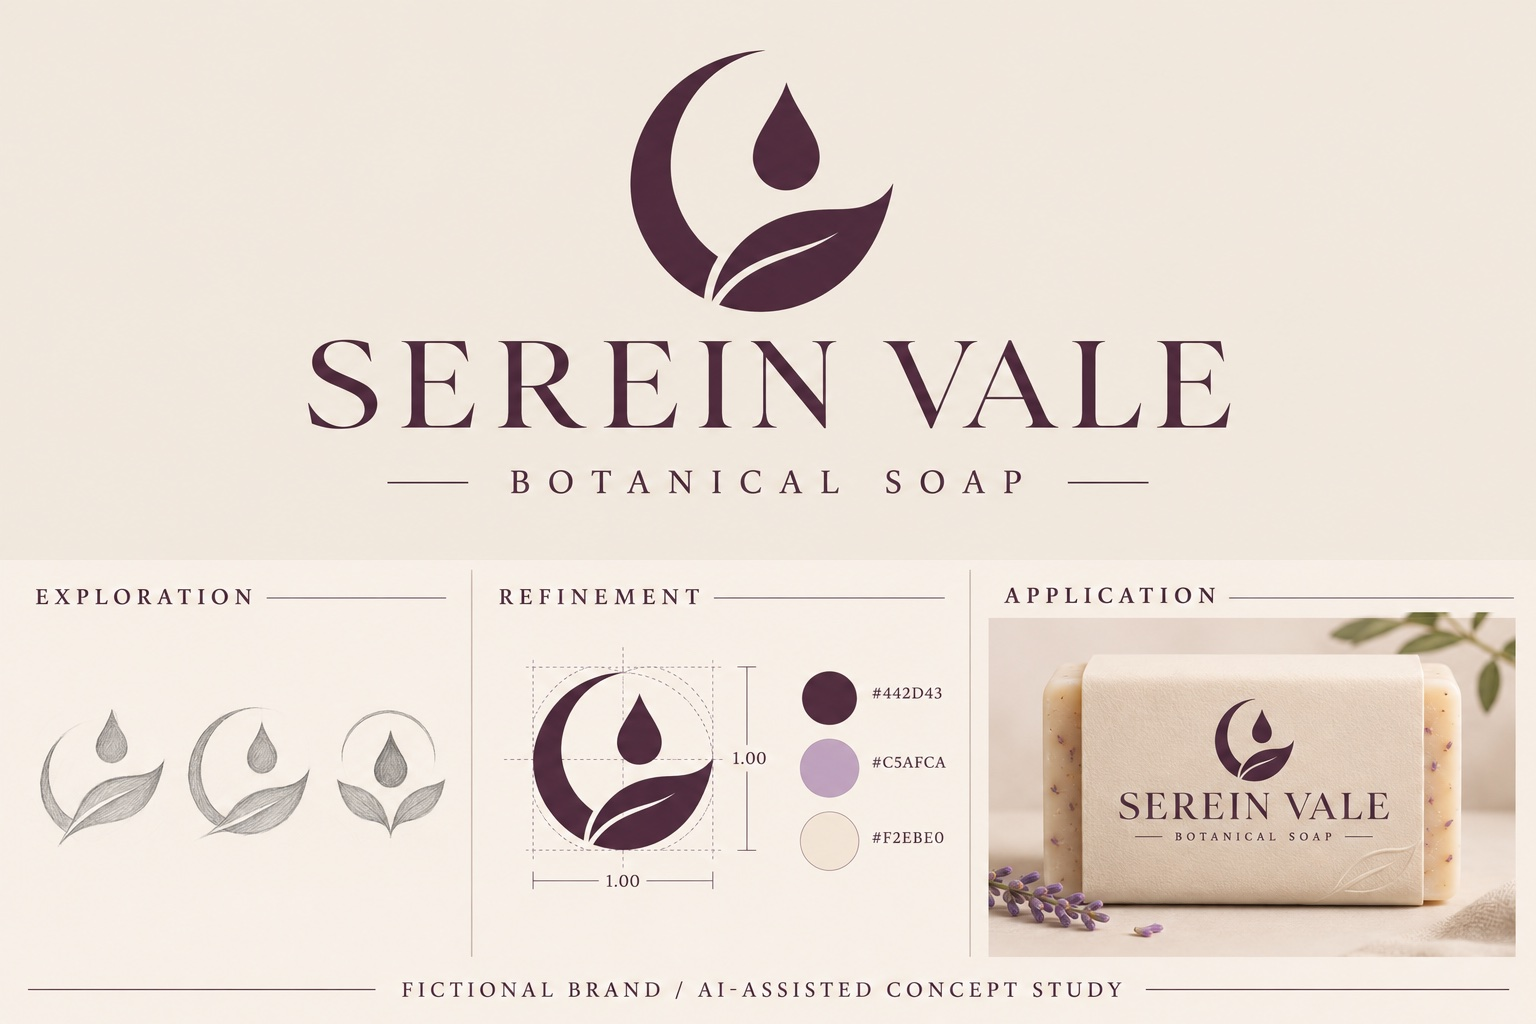
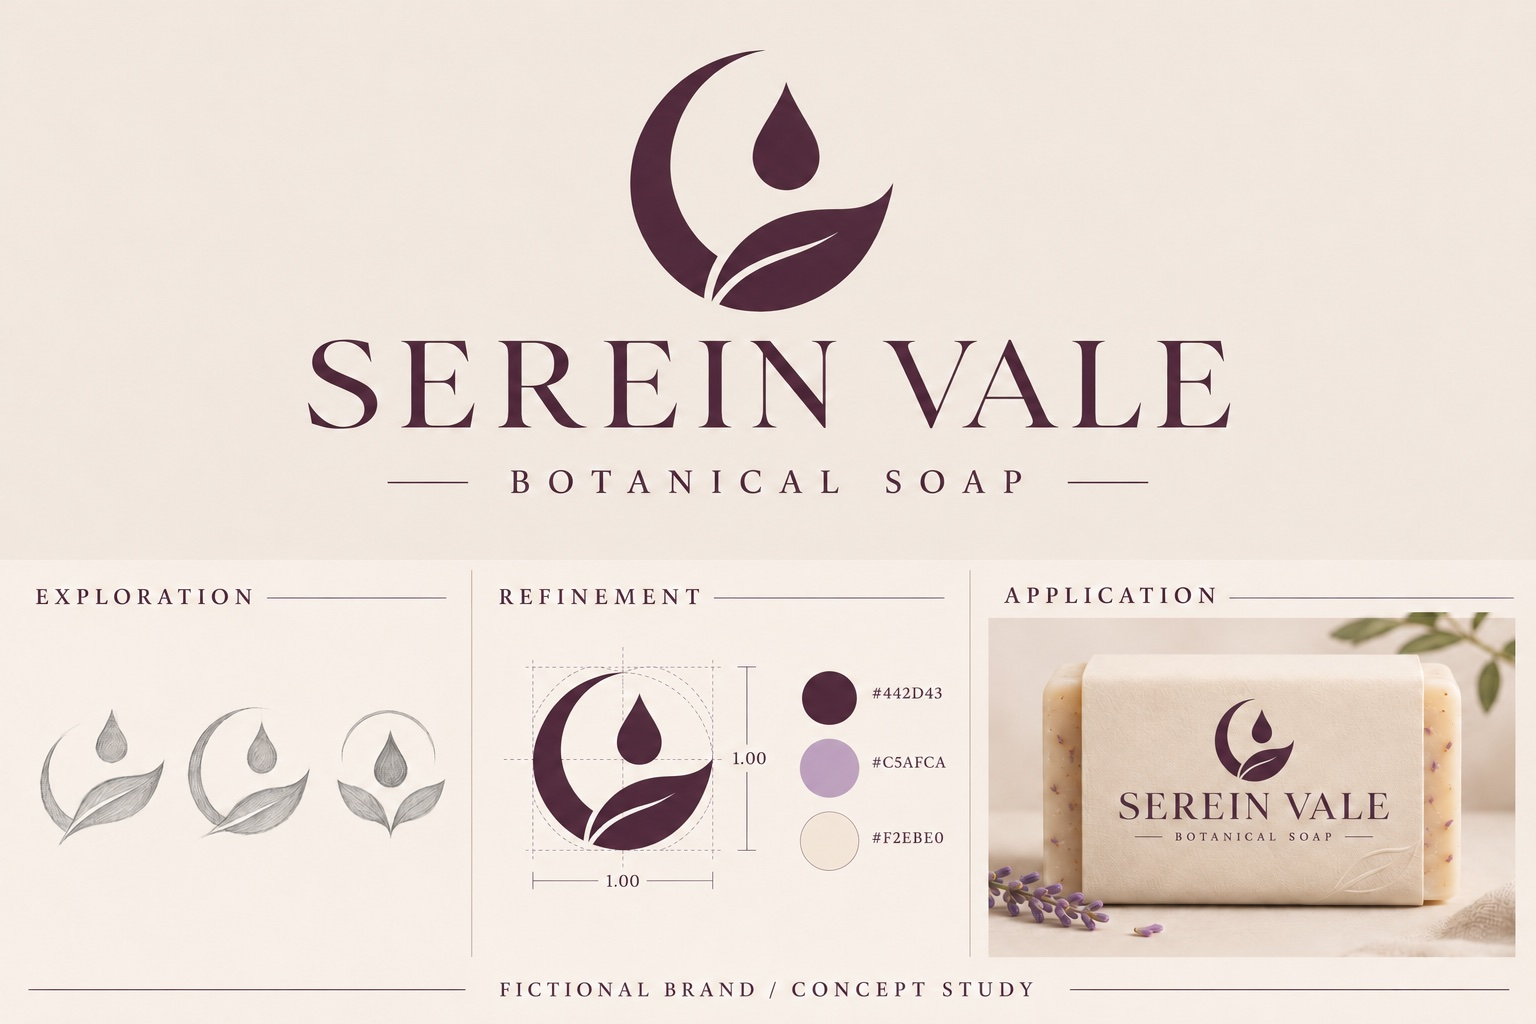
Replace identity boards with revised artwork

Changed region(s): [[0.25, 0.9375, 0.7188, 0.9688], [0.6875, 0.875, 0.7188, 0.9062]]

diff --git a/src/components/ReferenceTheme.css b/src/components/ReferenceTheme.css
@@ -145,5 +145,3 @@ body{background:var(--color-secondary);color:var(--color-dominant)}
 .portfolio .logo-design-cover{display:block;position:relative;width:100%;padding:0;border:1px solid var(--color-dominant);overflow:hidden;background:var(--color-secondary);cursor:pointer}.logo-design-cover>img,.logo-design-cover>video{display:block;width:100%;height:auto}.logo-watch{display:flex;align-items:center;justify-content:center;gap:10px;padding:16px;font:14px/1.4 Arial,sans-serif;background:var(--color-secondary);color:var(--color-dominant);border-top:1px solid var(--color-dominant)}.logo-design-cover:focus-visible{outline:2px solid var(--color-accent);outline-offset:5px}.study-media-logo video{display:block;width:100%;max-height:75vh}
 @media(max-width:750px){.logo-design-feature{grid-template-columns:1fr;gap:15px;margin-top:45px}.logo-watch{font-size:12px}}
 .logo-concepts{margin-top:65px;padding-top:30px;border-top:1px solid var(--color-dominant)}.logo-concepts header{max-width:760px;margin-bottom:28px}.portfolio .logo-concepts h3{font-family:'Instrument Serif',Georgia,serif;font-weight:400;font-size:clamp(35px,4vw,60px);margin:14px 0}.logo-concepts header>p:last-child{font-size:16px;line-height:1.6}.logo-concept-grid{display:grid;grid-template-columns:repeat(2,minmax(0,1fr));gap:30px 24px}.portfolio .logo-concept-grid button{display:block;text-align:left;background:transparent;border:0;padding:0;color:var(--color-dominant);cursor:pointer}.logo-concept-grid img{width:100%;height:auto;display:block;border:1px solid var(--color-dominant)}.logo-concept-grid button>span{display:flex;justify-content:space-between;align-items:center;margin-top:12px}.logo-concept-grid strong{font-size:20px;font-weight:500}.logo-concept-grid small{display:block;margin-top:5px;font-size:12px}.logo-concept-grid button:focus-visible{outline:2px solid var(--color-accent);outline-offset:5px}.logo-concept-grid svg{fill:none!important;stroke:currentColor}@media(max-width:650px){.logo-concept-grid{grid-template-columns:1fr;gap:25px}}
-/* Keep the board's marks and applications in view, cropping the caption footer. */
-.logo-concept-grid img,.study-media img[src^="/design/concepts/"]{clip-path:inset(0 0 6% 0);margin-bottom:-4%}
